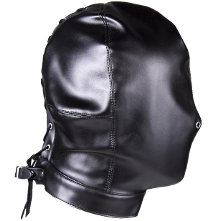
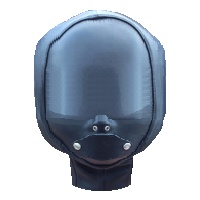
Blindfolds & Hoods
Blindfolds & Hoods

diff --git a/BondageClub/Screens/Character/Appearance/Appearance.js b/BondageClub/Screens/Character/Appearance/Appearance.js
@@ -155,6 +155,13 @@ function CharacterAppearanceSort(AP) {
 	return Arr;
 }
 
+function CharacterAppearanceVisibke(C, GroupName) {
+	for (var A = 0; A < C.Appearance.length; A++)
+		if ((C.Appearance[A].Asset.Hide != null) && (C.Appearance[A].Asset.Hide.indexOf(GroupName) >= 0))
+			return false;
+	return true;
+}
+
 // Gets the character 
 function CharacterAppearanceBuildCanvas(C) {
 
@@ -174,43 +181,44 @@ function CharacterAppearanceBuildCanvas(C) {
 	C.Appearance = CharacterAppearanceSort(C.Appearance);
 	
 	// Loops in all items worn by the character
-	for (var A = 0; A < C.Appearance.length; A++) {
+	for (var A = 0; A < C.Appearance.length; A++) 
+		if (CharacterAppearanceVisibke(C, C.Appearance[A].Asset.Group.Name)) {
 
-		// If there's a father group, we must add it to find the correct image
-		var CA = C.Appearance[A];
-		var G = "";
-		if (CA.Asset.Group.ParentGroupName != "")
-			for (var FG = 0; FG < C.Appearance.length; FG++)
-				if (CA.Asset.Group.ParentGroupName == C.Appearance[FG].Asset.Group.Name)
-					G = "_" + C.Appearance[FG].Asset.Name;
-		
-		// If there's a pose style we must add
-		var Pose = "";
-		if ((CA.Asset.Group.AllowPose != null) && (CA.Asset.Group.AllowPose.length > 0) && (C.Pose != null) && (C.Pose.length > 0))
-			for (var AP = 0; AP < CA.Asset.Group.AllowPose.length; AP++)
-				for (var P = 0; P < C.Pose.length; P++)
-					if (C.Pose[P] == CA.Asset.Group.AllowPose[AP])
-						Pose = C.Pose[P] + "/";
-		
-		// Draw the item on the canvas (default or empty means no special color, # means apply a color, regular text means we apply that text)
-		if (CA.Asset.Visible) {
-			if ((CA.Color == "Default") || (CA.Color == "")) {
-				DrawImageCanvas("Assets/" + CA.Asset.Group.Family + "/" + CA.Asset.Group.Name + "/" + Pose + CA.Asset.Name + G + ".png", C.Canvas.getContext("2d"), CA.Asset.Group.DrawingLeft, CA.Asset.Group.DrawingTop);
-				if (!CA.Asset.Group.DrawingBlink) DrawImageCanvas("Assets/" + CA.Asset.Group.Family + "/" + CA.Asset.Group.Name + "/" + Pose + CA.Asset.Name + G + ".png", C.CanvasBlink.getContext("2d"), CA.Asset.Group.DrawingLeft, CA.Asset.Group.DrawingTop);
-			}
-			else {
-				if (CA.Color.indexOf("#") != 0) {
-					DrawImageCanvas("Assets/" + CA.Asset.Group.Family + "/" + CA.Asset.Group.Name + "/" + Pose + CA.Asset.Name + G + "_" + CA.Color + ".png", C.Canvas.getContext("2d"), CA.Asset.Group.DrawingLeft, CA.Asset.Group.DrawingTop);
-					if (!CA.Asset.Group.DrawingBlink) DrawImageCanvas("Assets/" + CA.Asset.Group.Family + "/" + CA.Asset.Group.Name + "/" + Pose + CA.Asset.Name + G + "_" + CA.Color + ".png", C.CanvasBlink.getContext("2d"), CA.Asset.Group.DrawingLeft, CA.Asset.Group.DrawingTop);				
+			// If there's a father group, we must add it to find the correct image
+			var CA = C.Appearance[A];
+			var G = "";
+			if (CA.Asset.Group.ParentGroupName != "")
+				for (var FG = 0; FG < C.Appearance.length; FG++)
+					if (CA.Asset.Group.ParentGroupName == C.Appearance[FG].Asset.Group.Name)
+						G = "_" + C.Appearance[FG].Asset.Name;
+			
+			// If there's a pose style we must add
+			var Pose = "";
+			if ((CA.Asset.Group.AllowPose != null) && (CA.Asset.Group.AllowPose.length > 0) && (C.Pose != null) && (C.Pose.length > 0))
+				for (var AP = 0; AP < CA.Asset.Group.AllowPose.length; AP++)
+					for (var P = 0; P < C.Pose.length; P++)
+						if (C.Pose[P] == CA.Asset.Group.AllowPose[AP])
+							Pose = C.Pose[P] + "/";
+			
+			// Draw the item on the canvas (default or empty means no special color, # means apply a color, regular text means we apply that text)
+			if (CA.Asset.Visible) {
+				if ((CA.Color == "Default") || (CA.Color == "")) {
+					DrawImageCanvas("Assets/" + CA.Asset.Group.Family + "/" + CA.Asset.Group.Name + "/" + Pose + CA.Asset.Name + G + ".png", C.Canvas.getContext("2d"), CA.Asset.Group.DrawingLeft, CA.Asset.Group.DrawingTop);
+					if (!CA.Asset.Group.DrawingBlink) DrawImageCanvas("Assets/" + CA.Asset.Group.Family + "/" + CA.Asset.Group.Name + "/" + Pose + CA.Asset.Name + G + ".png", C.CanvasBlink.getContext("2d"), CA.Asset.Group.DrawingLeft, CA.Asset.Group.DrawingTop);
 				}
 				else {
-					DrawImageCanvasColorize("Assets/" + CA.Asset.Group.Family + "/" + CA.Asset.Group.Name + "/" + Pose + CA.Asset.Name + G + ".png", C.Canvas.getContext("2d"), CA.Asset.Group.DrawingLeft, CA.Asset.Group.DrawingTop, 1, CA.Color, CA.Asset.Group.DrawingFullAlpha);
-					if (!CA.Asset.Group.DrawingBlink) DrawImageCanvasColorize("Assets/" + CA.Asset.Group.Family + "/" + CA.Asset.Group.Name + "/" + Pose + CA.Asset.Name + G + ".png", C.CanvasBlink.getContext("2d"), CA.Asset.Group.DrawingLeft, CA.Asset.Group.DrawingTop, 1, CA.Color, CA.Asset.Group.DrawingFullAlpha);				
+					if (CA.Color.indexOf("#") != 0) {
+						DrawImageCanvas("Assets/" + CA.Asset.Group.Family + "/" + CA.Asset.Group.Name + "/" + Pose + CA.Asset.Name + G + "_" + CA.Color + ".png", C.Canvas.getContext("2d"), CA.Asset.Group.DrawingLeft, CA.Asset.Group.DrawingTop);
+						if (!CA.Asset.Group.DrawingBlink) DrawImageCanvas("Assets/" + CA.Asset.Group.Family + "/" + CA.Asset.Group.Name + "/" + Pose + CA.Asset.Name + G + "_" + CA.Color + ".png", C.CanvasBlink.getContext("2d"), CA.Asset.Group.DrawingLeft, CA.Asset.Group.DrawingTop);				
+					}
+					else {
+						DrawImageCanvasColorize("Assets/" + CA.Asset.Group.Family + "/" + CA.Asset.Group.Name + "/" + Pose + CA.Asset.Name + G + ".png", C.Canvas.getContext("2d"), CA.Asset.Group.DrawingLeft, CA.Asset.Group.DrawingTop, 1, CA.Color, CA.Asset.Group.DrawingFullAlpha);
+						if (!CA.Asset.Group.DrawingBlink) DrawImageCanvasColorize("Assets/" + CA.Asset.Group.Family + "/" + CA.Asset.Group.Name + "/" + Pose + CA.Asset.Name + G + ".png", C.CanvasBlink.getContext("2d"), CA.Asset.Group.DrawingLeft, CA.Asset.Group.DrawingTop, 1, CA.Color, CA.Asset.Group.DrawingFullAlpha);				
+					}			
 				}			
-			}			
-		}
+			}
 
-	}
+		}
 
 }
 

diff --git a/BondageClub/Scripts/Drawing.js b/BondageClub/Scripts/Drawing.js
@@ -80,42 +80,45 @@ function DrawGetImage(Source) {
 function DrawCharacter(C, X, Y, Zoom) {
 
 	// Make sure we have a character
-	if (C != null) {
+	if (C != null) 
+		if ((C.ID == 0) || (Player.Effect.indexOf("BlindHeavy") < 0)) {
 
-		// There's 2 different canvas, one blinking and one that doesn't
-		var seconds = new Date().getTime();
-		var Canvas = (Math.round(seconds / 400) % C.BlinkFactor == 0) ? C.CanvasBlink : C.Canvas;
-		
-		// If we must flip the canvas vertically
-		if (C.Pose.indexOf("Suspension") >= 0)	{
-			var CanvasH = document.createElement("canvas");
-			var CtxH = CanvasH.getContext("2d");
-			CanvasH.width = Canvas.width;
-			CanvasH.height = Canvas.height;
-			CtxH.scale(1, -1);
-			CtxH.translate(0, -Canvas.height);
-			CtxH.drawImage(Canvas, 0, 0);
-			Canvas = CanvasH;
+			// There's 2 different canvas, one blinking and one that doesn't
+			var seconds = new Date().getTime();
+			var Canvas = (Math.round(seconds / 400) % C.BlinkFactor == 0) ? C.CanvasBlink : C.Canvas;
+			
+			// If we must flip the canvas vertically
+			if (C.Pose.indexOf("Suspension") >= 0)	{
+				var CanvasH = document.createElement("canvas");
+				var CtxH = CanvasH.getContext("2d");
+				CanvasH.width = Canvas.width;
+				CanvasH.height = Canvas.height;
+				CtxH.scale(1, -1);
+				CtxH.translate(0, -Canvas.height);
+				CtxH.drawImage(Canvas, 0, 0);
+				Canvas = CanvasH;
+			}
+			
+			// Draw the character
+			if ((Zoom == undefined) || (Zoom == 1))
+				DrawCanvas(Canvas, X, Y - C.HeightModifier);
+			else
+				DrawCanvasZoom(Canvas, X, Y - (C.HeightModifier * Zoom), Zoom);
+
+			// Draws the character focus zones if we need too
+			if ((C.FocusGroup != null) && (C.FocusGroup.Zone != null))
+				for(var Z = 0; Z < C.FocusGroup.Zone.length; Z++)
+					if (C.Pose.indexOf("Suspension") >= 0)
+						DrawEmptyRect(C.FocusGroup.Zone[Z][0] + X, 1000 - (C.FocusGroup.Zone[Z][1] + Y + C.FocusGroup.Zone[Z][3]) - C.HeightModifier, C.FocusGroup.Zone[Z][2], C.FocusGroup.Zone[Z][3], "cyan");
+					else
+						DrawEmptyRect(C.FocusGroup.Zone[Z][0] + X, C.FocusGroup.Zone[Z][1] + Y - C.HeightModifier, C.FocusGroup.Zone[Z][2], C.FocusGroup.Zone[Z][3], "cyan");
+			
+			// Draw the character name below herself
+			if ((C.Name != "") && (CurrentModule == "Room")) 
+				if (!Player.IsBlind())
+					DrawText(C.Name, X + 255, Y + 980, "White", "Black");
+			
 		}
-		
-		// Draw the character
-		if ((Zoom == undefined) || (Zoom == 1))
-			DrawCanvas(Canvas, X, Y - C.HeightModifier);
-		else
-			DrawCanvasZoom(Canvas, X, Y - (C.HeightModifier * Zoom), Zoom);
-
-		// Draws the character focus zones if we need too
-		if ((C.FocusGroup != null) && (C.FocusGroup.Zone != null))
-			for(var Z = 0; Z < C.FocusGroup.Zone.length; Z++)
-				if (C.Pose.indexOf("Suspension") >= 0)
-					DrawEmptyRect(C.FocusGroup.Zone[Z][0] + X, 1000 - (C.FocusGroup.Zone[Z][1] + Y + C.FocusGroup.Zone[Z][3]) - C.HeightModifier, C.FocusGroup.Zone[Z][2], C.FocusGroup.Zone[Z][3], "cyan");
-				else
-					DrawEmptyRect(C.FocusGroup.Zone[Z][0] + X, C.FocusGroup.Zone[Z][1] + Y - C.HeightModifier, C.FocusGroup.Zone[Z][2], C.FocusGroup.Zone[Z][3], "cyan");
-		
-		// Draw the character name below herself
-		if ((C.Name != "") && (CurrentModule == "Room")) DrawText(C.Name, X + 255, Y + 980, "White", "Black");
-		
-	}
 
 }
 		
@@ -366,7 +369,10 @@ function DrawProcess() {
 	// Gets the current screen background and draw it, a darker version in character dialog mode
 	var B = window[CurrentScreen + "Background"];
 	if ((B != null) && (B != ""))
-		DrawImage("Backgrounds/" + B + (((CurrentCharacter != null) || ShopStarted) ? "Dark" : "") + ".jpg", 0, 0);
+		if ((Player.Effect.indexOf("BlindHeavy") >= 0) && (CurrentModule != "Character"))
+			DrawRect(0, 0, 2000, 1000, "Black");
+		else
+			DrawImage("Backgrounds/" + B + (((CurrentCharacter != null) || ShopStarted || (Player.Effect.indexOf("BlindLight") >= 0)) ? "Dark" : "") + ".jpg", 0, 0);
 	
 	// Draws the dialog screen or current screen if there's no loaded character
 	if (CurrentCharacter != null) DialogDraw();

diff --git a/BondageClub/Assets/Female3DCG/Female3DCG.js b/BondageClub/Assets/Female3DCG/Female3DCG.js
@@ -26,7 +26,7 @@ var AssetFemale3DCG = [
 	
 	{
 		Group: "Cloth",
-		Priority: 18,
+		Priority: 19,
 		ParentGroup: "BodyUpper",
 		AllowPose: ["BackBoxTie", "BackCuffs", "BackElbowTouch"],
 		Color: ["Default", "#202020", "#808080", "#bbbbbb", "#aa8080", "#80aa80", "#8080aa", "#aaaa80", "#80aaaa", "#aa80aa", "#cc3333", "#33cc33", "#3333cc", "#cccc33", "#33cccc", "#cc33cc"],
@@ -46,7 +46,7 @@ var AssetFemale3DCG = [
 
 	{
 		Group: "HairFront",
-		Priority: 20,
+		Priority: 21,
 		AllowNone: false,
 		ParentColor: "HairBack",
 		Color: ["#6a3628", "#202020", "#dcc787", "#6c2132", "#999999", "#dddddd", "#e781b1", "#81e7b1", "#81b1e7", "#eeee99", "#ee9999", "#ee99ee"],
@@ -57,7 +57,7 @@ var AssetFemale3DCG = [
 
 	{
 		Group: "Hat",
-		Priority: 21,
+		Priority: 22,
 		Default: false,
 		Color: ["Default", "#202020", "#808080", "#bbbbbb", "#aa8080", "#80aa80", "#8080aa", "#aaaa80", "#80aaaa", "#aa80aa", "#cc3333", "#33cc33", "#3333cc", "#cccc33", "#33cccc", "#cc33cc"],
 		Left: 125,
@@ -186,7 +186,7 @@ var AssetFemale3DCG = [
 	{
 		Group: "ItemFeet",
 		Category: "Item",
-		Priority: 22,
+		Priority: 23,
 		ParentGroup: "BodyLower",
 		Default: false,
 		Effect: ["Freeze", "Prone"],
@@ -206,7 +206,7 @@ var AssetFemale3DCG = [
 	{
 		Group: "ItemLegs",
 		Category: "Item",
-		Priority: 23,
+		Priority: 24,
 		ParentGroup: "BodyLower",
 		Default: false,
 		Effect: ["Prone"],
@@ -262,7 +262,7 @@ var AssetFemale3DCG = [
 		Group: "ItemArms",
 		ParentGroup: "BodyUpper",
 		Category: "Item",
-		Priority: 19,
+		Priority: 20,
 		Default: false,
 		Color: ["Default"],
 		Left: 125,		
@@ -317,16 +317,16 @@ var AssetFemale3DCG = [
 	{
 		Group: "ItemHead",
 		Category: "Item",
-		Priority: 24,
+		Priority: 18,
 		Default: false,
-		Effect: ["Blind", "Prone"],
 		Color: ["Default"],
 		Left: 150,
 		Top: 50,
 		Zone: [[150, 35, 200, 125]],
 		Asset: [ 
-			{ Name: "LeatherBlindfold", Enable: false, Value: 30, Time: 10 },
-			{ Name: "LeatherHood", Enable: false, Value: 75, Time: 20 }
+			{ Name: "LeatherBlindfold", Effect: ["BlindLight", "Prone"], Hide: ["Glasses"], Value: 30, Time: 5 },
+			{ Name: "LeatherHood", Effect: ["BlindHeavy", "Prone", "GagLight"], Hide: ["HairFront", "HairBack", "Glasses", "ItemMouth", "Eyes"], Value: 75, Time: 15 },
+			{ Name: "LeatherHoodOpenEyes", Effect: ["Prone", "GagLight"], Hide: ["HairFront", "HairBack", "Glasses", "ItemMouth"], Value: 60, Time: 15 }
 		]
 	},
 

diff --git a/BondageClub/Screens/Room/MaidQuarters/MaidQuarters.js b/BondageClub/Screens/Room/MaidQuarters/MaidQuarters.js
@@ -3,7 +3,6 @@ var MaidQuartersMaid = null;
 var MaidQuartersMaidInitiation = null;
 var MaidQuartersPreviousCloth = null;
 var MaidQuartersPreviousHat = null;
-var MaidQuartersPlayerInMaidUniform = false;
 var MaidQuartersMaidReleasedPlayer = false;
 var MaidQuartersCanBecomeMaid = false;
 var MaidQuartersCannotBecomeMaidYet = false
@@ -12,6 +11,9 @@ var MaidQuartersCannotBecomeHeadMaidYet = false
 var MaidQuartersIsMaid = false;
 var MaidQuartersDominantRep = 0;
 
+// Returns TRUE if the player is dressed in a maid uniform
+function MaidQuartersPlayerInMaidUniform() { return ((CharacterAppearanceGetCurrentValue(Player, "Cloth", "Name") == "MaidOutfit1") && (CharacterAppearanceGetCurrentValue(Player, "Hat", "Name") == "MaidHairband1")) }
+
 // Loads the maid quarters room
 function MaidQuartersLoad() {
 
@@ -19,7 +21,6 @@ function MaidQuartersLoad() {
 	MaidQuartersMaid = CharacterLoadNPC("NPC_MaidQuarters_Maid");
 	MaidQuartersMaidInitiation = CharacterLoadNPC("NPC_MaidQuarters_InitiationMaids");
 	InventoryWear(MaidQuartersMaidInitiation, "WoodenPaddle", "ItemMisc");
-	MaidQuartersPlayerInMaidUniform = ((CharacterAppearanceGetCurrentValue(Player, "Cloth", "Name") == "MaidOutfit1") && (CharacterAppearanceGetCurrentValue(Player, "Hat", "Name") == "MaidHairband1"));
 
 }
 

diff --git a/BondageClub/Scripts/Character.js b/BondageClub/Scripts/Character.js
@@ -32,7 +32,9 @@ function CharacterReset(CharacterID, CharacterAssetFamily) {
 		CanWalk : function() { return (this.Effect.indexOf("Freeze") < 0) },
 		CanInteract : function() { return (this.Effect.indexOf("Block") < 0) },
 		IsProne : function() { return (this.Effect.indexOf("Prone") > 0) },
-		IsRestrained : function() { return ((this.Effect.indexOf("Freeze") >= 0) || (this.Effect.indexOf("Block") >= 0) || (this.Effect.indexOf("Prone") >= 0)) }
+		IsRestrained : function() { return ((this.Effect.indexOf("Freeze") >= 0) || (this.Effect.indexOf("Block") >= 0) || (this.Effect.indexOf("Prone") >= 0)) },
+		IsBlind : function() { return ((Player.Effect.indexOf("BlindLight") >= 0) || (Player.Effect.indexOf("BlindHeavy") >= 0)) }
+		
 	}
 
 	// If the character doesn't exist, we create it

diff --git a/BondageClub/Scripts/Dialog.js b/BondageClub/Scripts/Dialog.js
@@ -167,6 +167,7 @@ function DialogProgressStart(C, PrevItem, NextItem) {
 	if ((NextItem != null) && (NextItem.Asset != null) && (NextItem.Asset.WearTime != null)) Timer = Timer + NextItem.Asset.WearTime;
 	if ((C.ID != 0) || ((C.ID == 0) && (PrevItem == null))) S = S + SkillGetLevel(Player, "Bondage");
 	if (Timer < 1) Timer = 1;
+	if (Player.IsBlind()) Timer = Timer * 2;
 
 	// Prepares the progress bar and timer
 	DialogProgress = 0;

diff --git a/BondageClub/Scripts/Asset.js b/BondageClub/Scripts/Asset.js
@@ -41,6 +41,7 @@ function AssetAdd(NewAsset) {
 		Visible: (NewAsset.Visible == null) ? true : NewAsset.Visible,
 		Wear: (NewAsset.Wear == null) ? true : NewAsset.Wear,
 		Effect: NewAsset.Effect,
+		Hide: NewAsset.Hide,
 		SetPose: NewAsset.SetPose,
 		Value: (NewAsset.Value == null) ? 0 : NewAsset.Value,
 		SelfBondage: (NewAsset.SelfBondage == null) ? true : NewAsset.SelfBondage,
